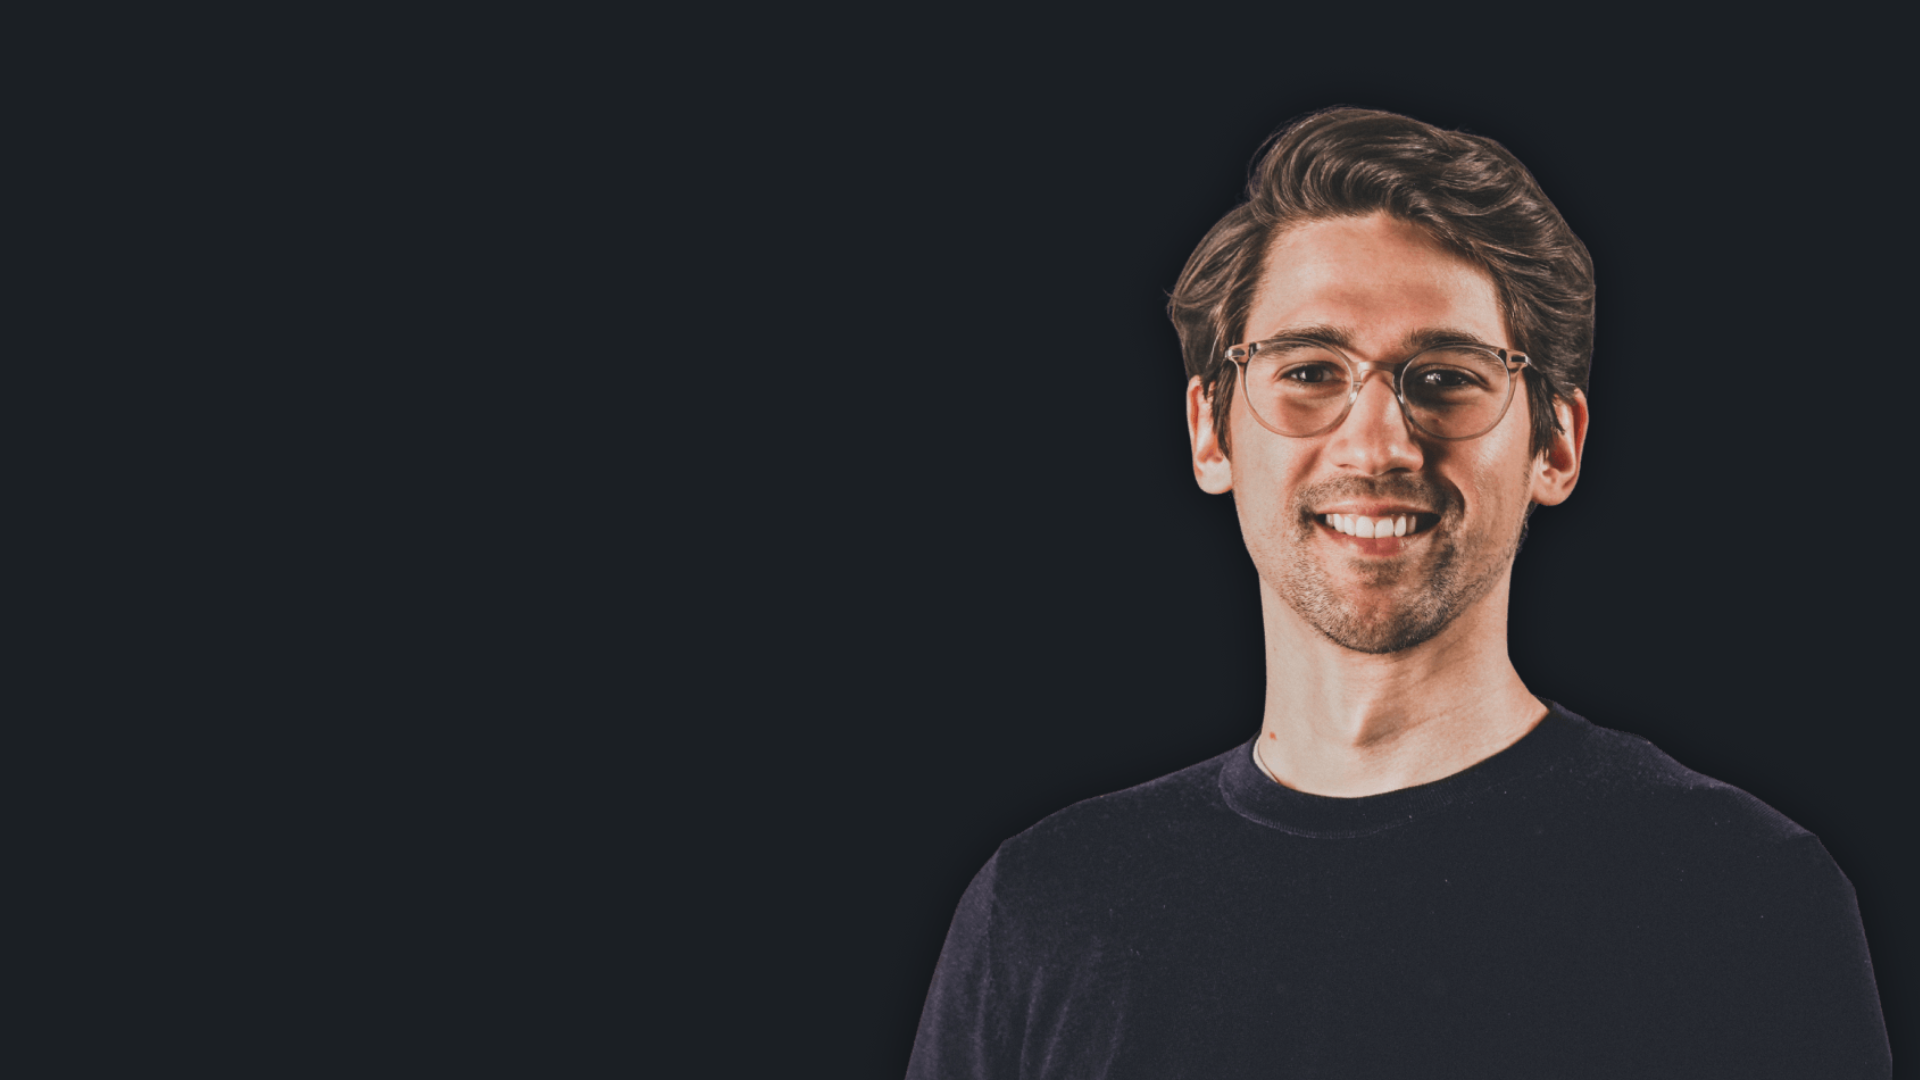
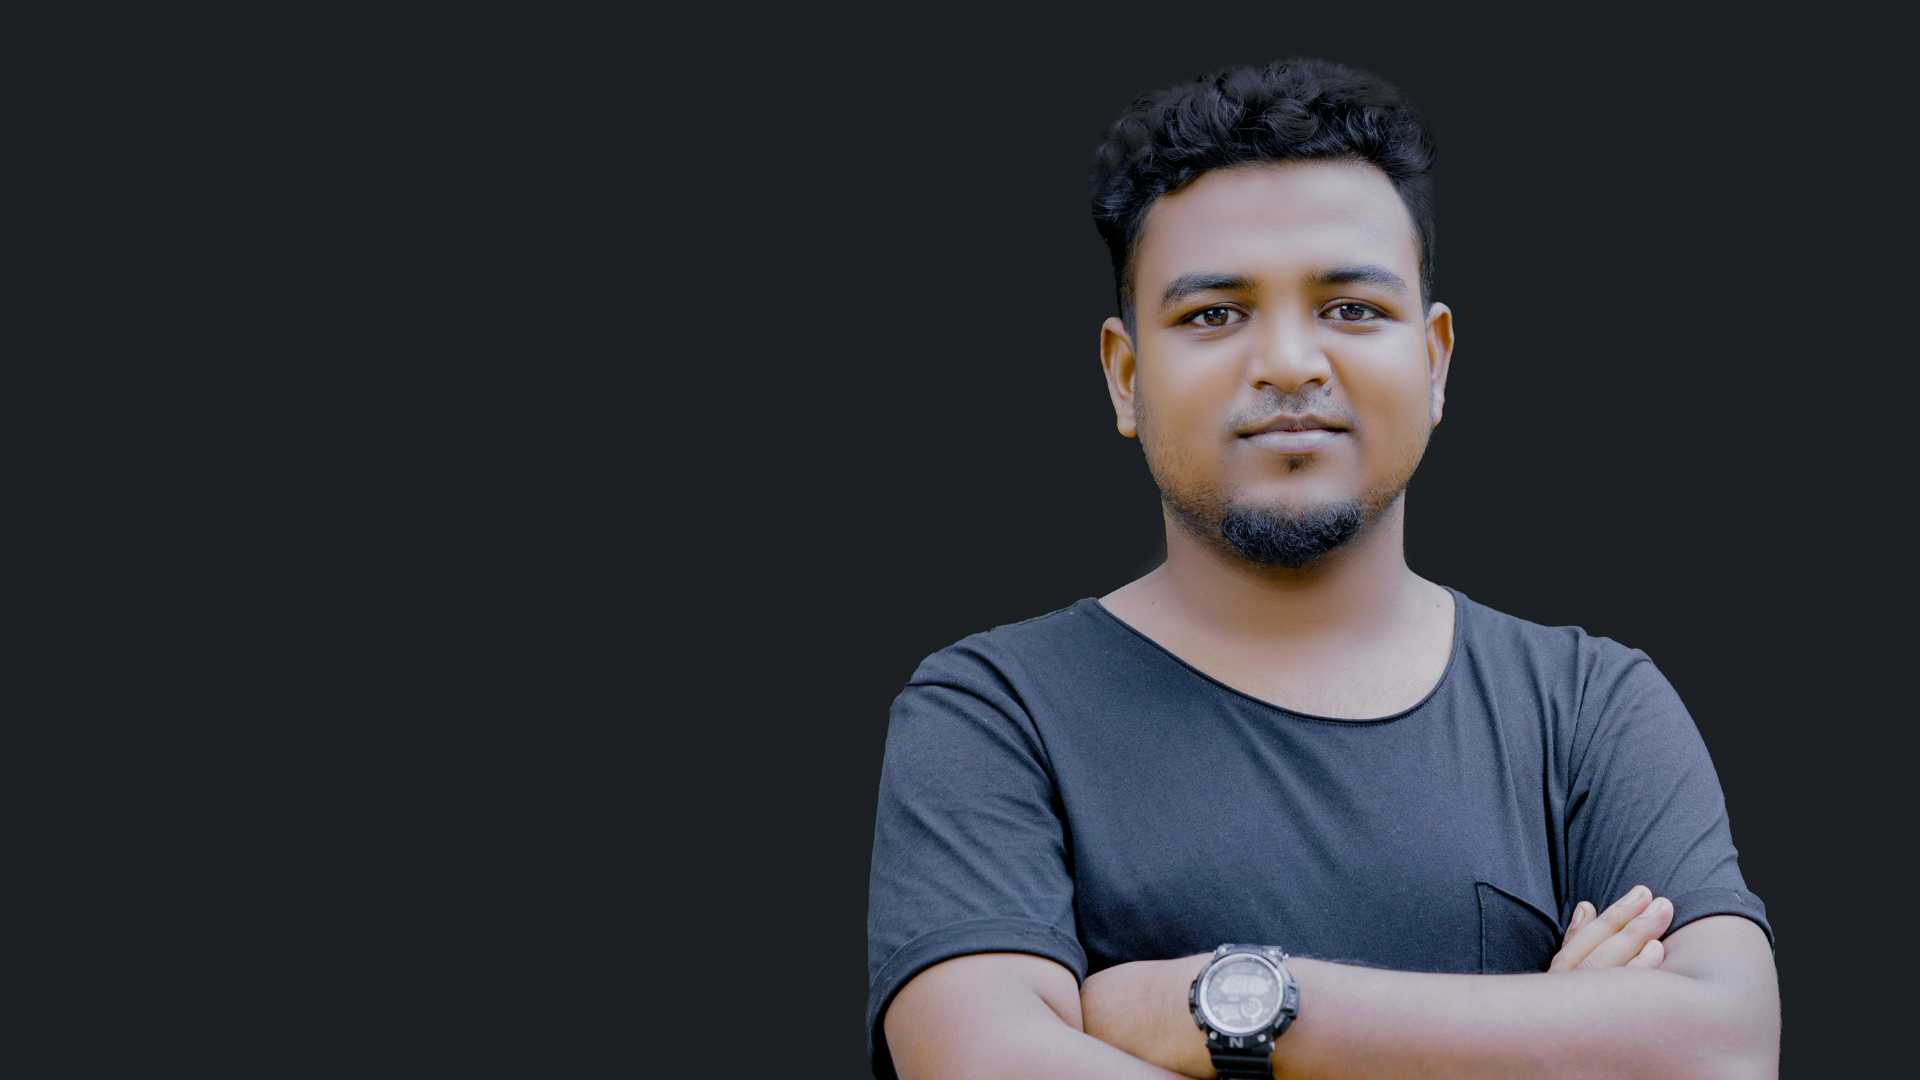
My Personal Portfolio add

Changed region(s): [[0.4375, 0.0611, 0.9375, 1.0]]

diff --git a/index.html b/index.html
@@ -62,7 +62,7 @@
     <!-- About -->
     <section class="about" id="about">
         <div class="about-img" data-aos="zoom-in-down">
-            <img src="img/about.jpg">
+            <img src="img/About.png">
         </div>
 
         <div class="about-text" data-aos="zoom-in-up">
@@ -70,7 +70,7 @@
             <div class="exp-area">
 
                 <p class="exp">
-                    Experience: <span>12 Years</span>
+                    Experience: <span>1 Years</span>
                 </p>
 
                 <p class="exp">
@@ -135,76 +135,94 @@
 
         <div class="portfolio-content" data-aos="zoom-in-up">
             <div class="row">
-                <img src="img/port-1.jpg">
+                <img src="img/portfolio1.png">
                 <div class="main-row">
                     <div class="row-text">
-                        <h5>Website Design</h5>
+                        <h5>Netex E-commerce Website Design</h5>
                     </div>
                     <div class="row-icon">
                         <i class="ri-github-fill"></i>
                     </div>
                 </div>
-                <h4>Website Development For Dark X</h4>
+                <h4>Using : <br> HTML,CSS,JS,SCSS,Bootstrap</h4>
+                <div class="website-link">
+                    <a href="https://almumeetu.github.io/netex/" class="btn btn3">View Website</a>
+                </div>
             </div>
             <div class="row">
-                <img src="img/port-2.jpg">
+                <img src="img/portfolio2.png">
                 <div class="main-row">
                     <div class="row-text">
-                        <h5>Website Design</h5>
+                        <h5>Sycho Website Design</h5>
                     </div>
                     <div class="row-icon">
                         <i class="ri-github-fill"></i>
                     </div>
                 </div>
-                <h4>Website Development For Dark X</h4>
+                <h4>Using : <br> HTML,CSS,JS,SCSS,Bootstrap</h4>
+                <div class="website-link">
+                    <a href="https://almumeetu.github.io/sycho/" class="btn btn3">View Website</a>
+                </div>
             </div>
             <div class="row">
-                <img src="img/port-3.jpg">
+                <img src="img/portfolio7.png">
                 <div class="main-row">
                     <div class="row-text">
-                        <h5>Website Design</h5>
+                        <h5>RedStore E-commerce Website Design</h5>
                     </div>
                     <div class="row-icon">
                         <i class="ri-github-fill"></i>
                     </div>
                 </div>
-                <h4>Website Development For Dark X</h4>
+                <h4>Using : <br> HTML,CSS,JS,SCSS,Bootstrap</h4>
+                <div class="website-link">
+                    <a href="https://almumeetu.github.io/RedStore-E-commerce-Website-Design/" class="btn btn3">View Website</a>
+                </div>
             </div>
             <div class="row">
-                <img src="img/port-4.jpg">
+                <img src="img/portfolio4.png">
                 <div class="main-row">
                     <div class="row-text">
-                        <h5>Website Design</h5>
+                        <h5>Construction Website Design</h5>
                     </div>
                     <div class="row-icon">
                         <i class="ri-github-fill"></i>
                     </div>
                 </div>
-                <h4>Website Development For Dark X</h4>
+                <h4>Using : <br> HTML,CSS,JS,SCSS,Bootstrap</h4>
+                <div class="website-link">
+                    <a href="https://almumeetu.github.io/construction/#" class="btn btn3">View Website</a>
+                </div>
             </div>
             <div class="row">
-                <img src="img/port-5.jpg">
+                <img src="img/portfolio5.png">
                 <div class="main-row">
                     <div class="row-text">
-                        <h5>Website Design</h5>
+                        <h5>Gardomia Website Design</h5>
                     </div>
                     <div class="row-icon">
                         <i class="ri-github-fill"></i>
                     </div>
                 </div>
-                <h4>Website Development For Dark X</h4>
+                <h4>Using : <br> HTML,CSS,JS,SCSS,Bootstrap</h4>
+                <div class="website-link">
+                    <a href="https://almumeetu.github.io/gardomia/" class="btn btn3">View Website</a>
+                </div>
             </div>
             <div class="row">
-                <img src="img/port-6.jpg">
+                <img src="img/portfolio6.png">
                 <div class="main-row">
                     <div class="row-text">
-                        <h5>Website Design</h5>
+                        <h5>Duhoot E-commerce Website Design</h5>
                     </div>
                     <div class="row-icon">
                         <i class="ri-github-fill"></i>
                     </div>
                 </div>
-                <h4>Website Development For Dark X</h4>
+                <h4>Using : <br> HTML,CSS,JS,SCSS,Bootstrap</h4>
+                <div class="website-link">
+                    <a href="https://almumeetu.github.io/duhoot/" class="btn btn3">View Website</a>
+                </div>
             </div>
         </div>
      </section>

diff --git a/style.css b/style.css
@@ -167,7 +167,23 @@ section{
     background: var(--main-color);
     color: var(--bg-color);
 }
-
+.btn3{
+    background: transparent;
+    color: #fff;
+    border: 2px solid var(--main-color);
+    transition: all .50s ease;
+    padding: 11px 12px;
+    font-size: 14px;
+    font-weight: 500;
+}
+.btn3:hover{
+    background: var(--main-color);
+    color: var(--bg-color);
+}
+.website-link{
+    text-align: center;
+    margin-top: 22px;
+}
 .sticky{
     background: var(--bg-color);
     box-shadow: 0 .1rem 1rem rgba(0, 0, 0, .2);
@@ -333,11 +349,12 @@ section{
     color: var(--text-color);
     background: #075fe4;
 }
-.row h4{
-    font-size: 20px;
-    font-weight: 700;
-    margin-bottom: 10px;
-    line-height: 1.4;
+.row h4 {
+	font-size: 18px;
+	font-weight: 500;
+	margin-bottom: 10px;
+	line-height: 1.4;
+	color: var(--main-color);
 }
 .row:hover{
     border: 1px solid var(--main-color);
